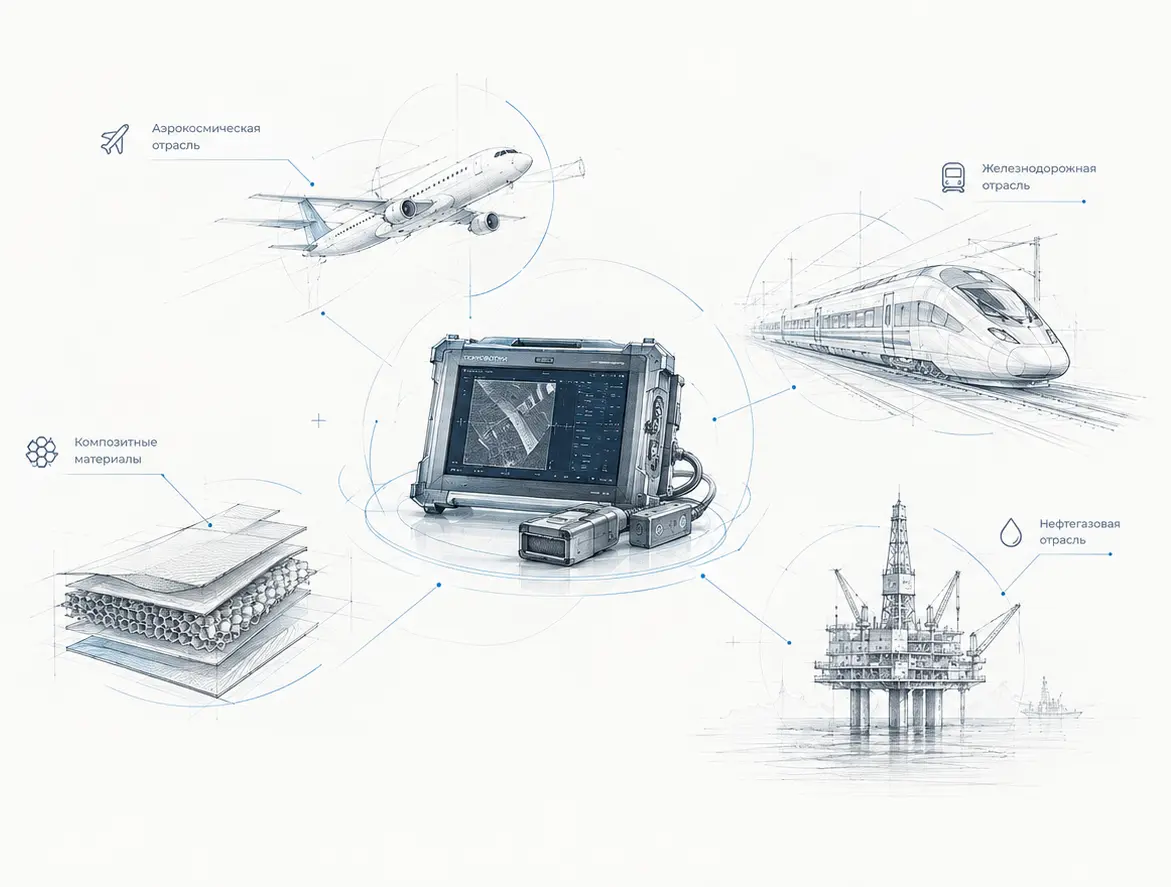
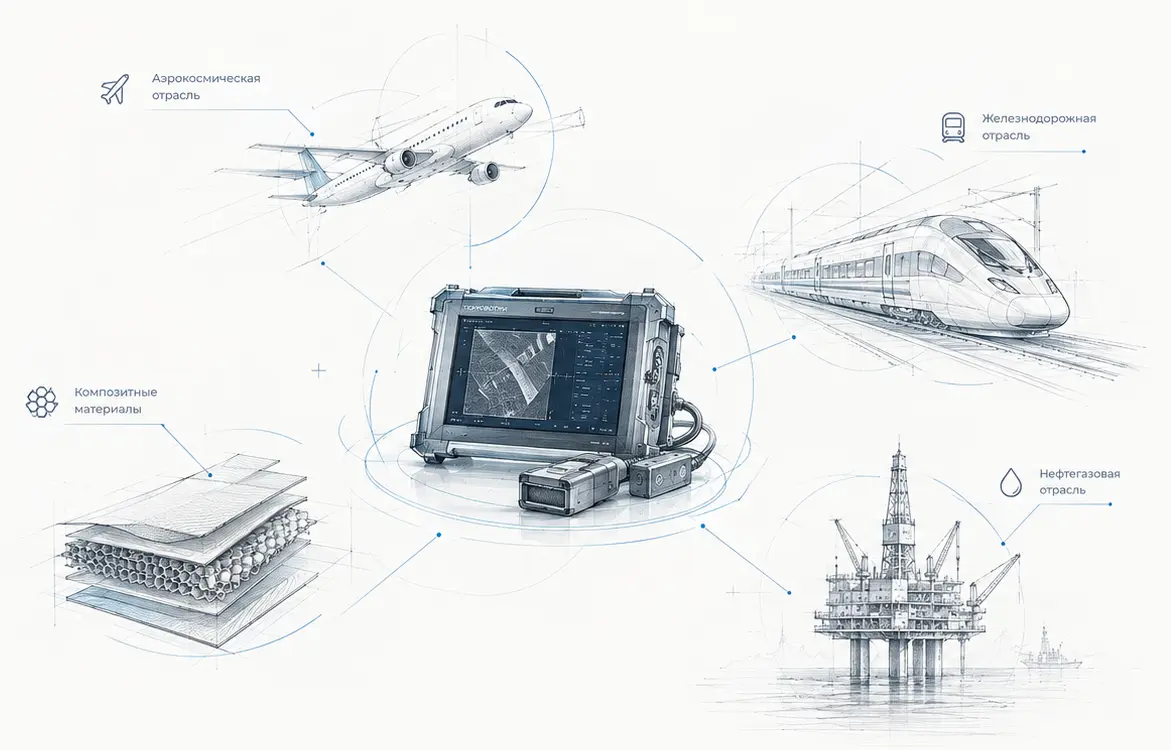
Add GeographySection.webp

diff --git a/resources/js/modules/site/components/company/CompanyGlobalPresence.vue b/resources/js/modules/site/components/company/CompanyGlobalPresence.vue
@@ -24,16 +24,13 @@
                         {{ t('company.global.description') }}
                     </p>
                 </div>
-                <div
-                    class="overflow-hidden rounded-2xl border border-slate-200"
-                >
+
                     <img
                         :src="'/image/GeographySection.webp'"
                         :alt="t('company.global.title')"
-                        class="block aspect-[4/3] h-auto w-full object-contain"
+                        class="block h-full w-full object-contain rounded-2xl border border-slate-200 bg-slate-100"
                         loading="lazy"
                     />
-                </div>
             </div>
         </div>
     </section>
